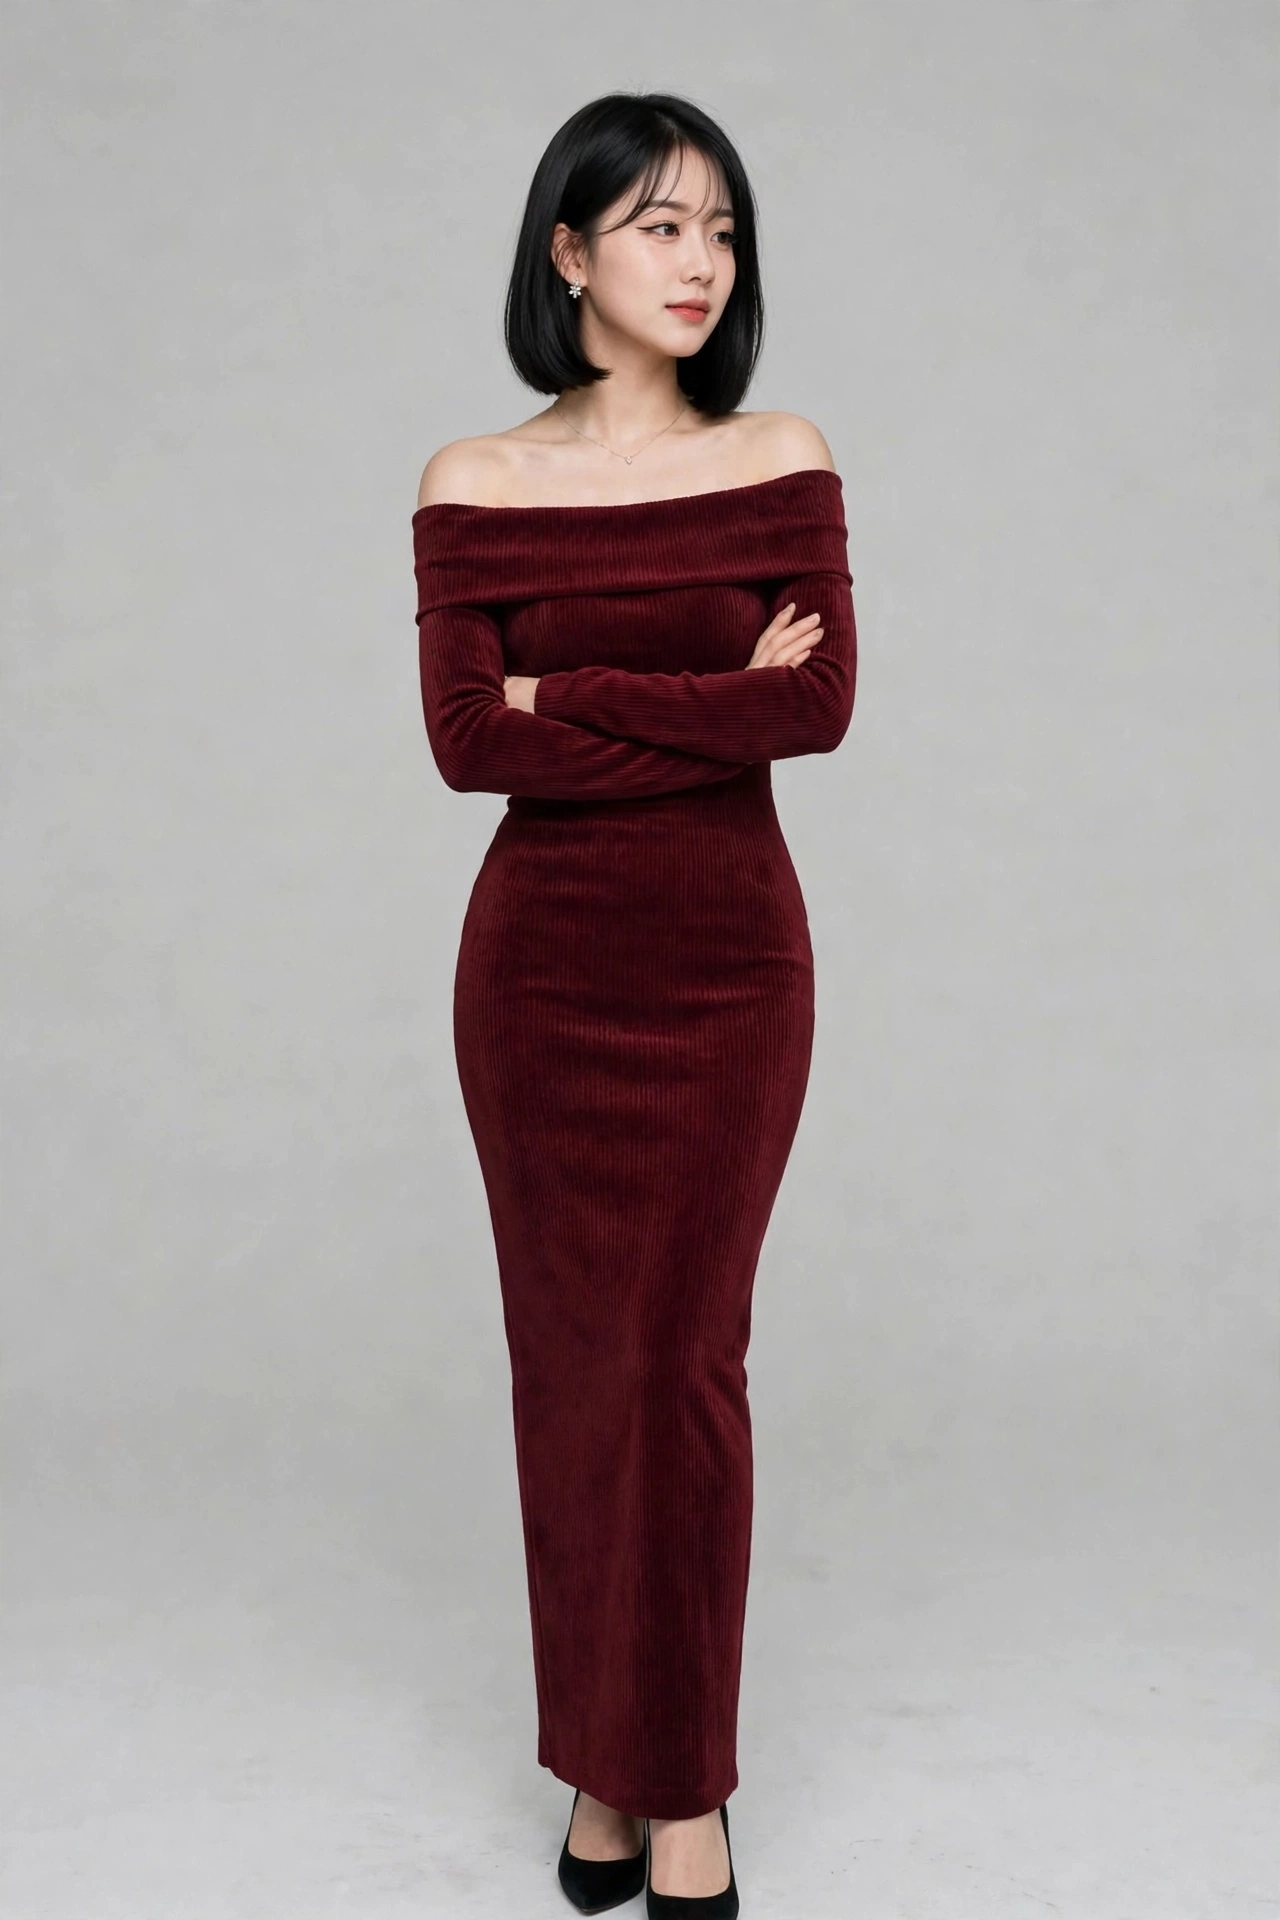
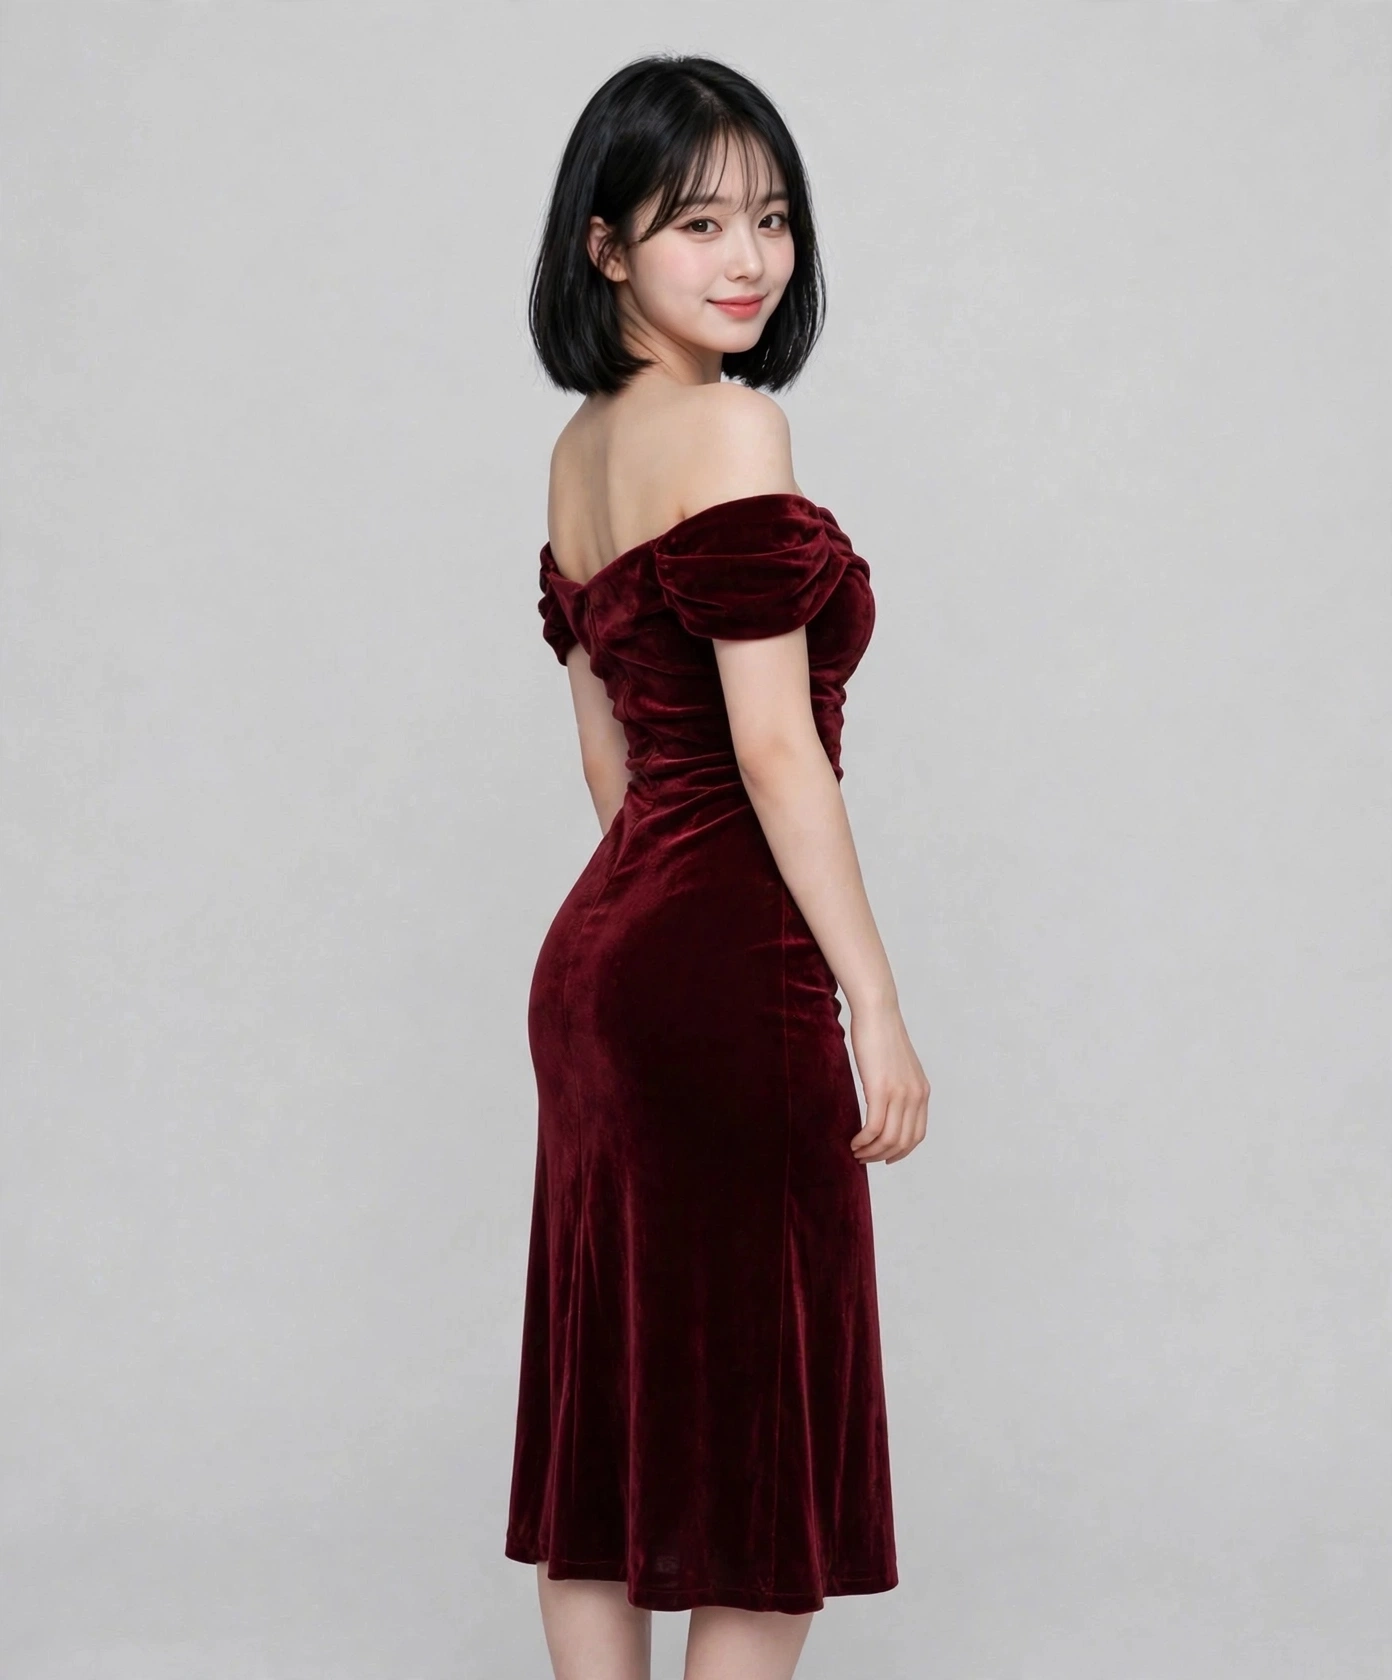
Refill Sena studio2 1-4 with v2 face, varied poses (v67)

diff --git a/index.html b/index.html
@@ -42,7 +42,7 @@
 <body>
 <header>
   <h1 id="album-title">Mia's Album</h1>
-  <p id="album-sub">확정 얼굴 기준의 컷 모음 (총 154컷) · 버전 66</p>
+  <p id="album-sub">확정 얼굴 기준의 컷 모음 (총 154컷) · 버전 67</p>
   <div class="char-switch" role="tablist" aria-label="캐릭터 선택">
     <button type="button" class="char-btn active" id="btn-mia">Mia</button>
     <button type="button" class="char-btn" id="btn-ciel">Ciel</button>
@@ -408,10 +408,10 @@
 <section id="sena-studio2">
   <h2>스튜디오 2차</h2>
   <div class="grid">
-    <div class="card" data-cap="Sena 스튜디오2 1 — 실버 새틴 롱드레스, 한 손 허리"><img src="img/sena-studio2-1.webp" alt="Sena 스튜디오2 1"><div class="cap">실버 새틴 · 롱</div></div>
-    <div class="card" data-cap="Sena 스튜디오2 2 — 네이비 페플럼, 워킹 미소"><img src="img/sena-studio2-2.webp" alt="Sena 스튜디오2 2"><div class="cap">네이비 페플럼 · 워킹</div></div>
-    <div class="card" data-cap="Sena 스튜디오2 3 — 버건디 오프숄더 롱, 팔짱 시크"><img src="img/sena-studio2-3.webp" alt="Sena 스튜디오2 3"><div class="cap">버건디 오프숄더 · 시크</div></div>
-    <div class="card" data-cap="Sena 스튜디오2 4 — 화이트 민소매 여름 원피스, 손 흔들며 웃음"><img src="img/sena-studio2-4.webp" alt="Sena 스튜디오2 4"><div class="cap">화이트 · 여름 웃음</div></div>
+    <div class="card" data-cap="Sena 스튜디오2 1 — 실버 새틴 롱드레스, 앉아 턱 든 도도"><img src="img/sena-studio2-1.webp" alt="Sena 스튜디오2 1"><div class="cap">실버 새틴 · 도도</div></div>
+    <div class="card" data-cap="Sena 스튜디오2 2 — 네이비 페플럼, 워킹 큰 웃음"><img src="img/sena-studio2-2.webp" alt="Sena 스튜디오2 2"><div class="cap">네이비 페플럼 · 큰 웃음</div></div>
+    <div class="card" data-cap="Sena 스튜디오2 3 — 버건디 오프숄더 롱, 돌아봄 미소"><img src="img/sena-studio2-3.webp" alt="Sena 스튜디오2 3"><div class="cap">버건디 오프숄더 · 돌아봄</div></div>
+    <div class="card" data-cap="Sena 스튜디오2 4 — 화이트 민소매 여름 원피스, 하이앵글 놀람"><img src="img/sena-studio2-4.webp" alt="Sena 스튜디오2 4"><div class="cap">화이트 · 하이앵글 놀람</div></div>
     <div class="card" data-cap="Sena 스튜디오2 5 — 하늘 민소매 랩 원피스, 윙크 볼하트"><img src="img/sena-studio2-5.webp" alt="Sena 스튜디오2 5"><div class="cap">하늘 랩 · 윙크</div></div>
     <div class="card" data-cap="Sena 스튜디오2 6 — 노란 선드레스, 빙글 돌며 웃음"><img src="img/sena-studio2-6.webp" alt="Sena 스튜디오2 6"><div class="cap">노란 선드레스 · 빙글</div></div>
     <div class="card" data-cap="Sena 스튜디오2 7 — 아이보리 새틴 슬립, 한 손 허리 우아하게"><img src="img/sena-studio2-7.webp" alt="Sena 스튜디오2 7"><div class="cap">아이보리 새틴 · 우아</div></div>
@@ -499,15 +499,15 @@
     btnSena.classList.toggle('active', name === 'sena');
     if (name === 'ciel'){
       albumTitle.textContent = "Ciel's Album";
-      albumSub.textContent = '단발 귀여운상 기준의 컷 모음 (총 4컷) · 버전 66';
+      albumSub.textContent = '단발 귀여운상 기준의 컷 모음 (총 4컷) · 버전 67';
       document.title = "Ciel's Album";
     } else if (name === 'sena'){
       albumTitle.textContent = "Sena's Album";
-      albumSub.textContent = '시크한 단발 귀염상 기준의 컷 모음 (총 29컷) · 버전 66';
+      albumSub.textContent = '시크한 단발 귀염상 기준의 컷 모음 (총 29컷) · 버전 67';
       document.title = "Sena's Album";
     } else {
       albumTitle.textContent = "Mia's Album";
-      albumSub.textContent = '확정 얼굴 기준의 컷 모음 (총 154컷) · 버전 66';
+      albumSub.textContent = '확정 얼굴 기준의 컷 모음 (총 154컷) · 버전 67';
       document.title = "Mia's Album";
     }
     cards = allCards.filter(c => c.offsetParent !== null);

diff --git a/sw.js b/sw.js
@@ -1,4 +1,4 @@
-const CACHE = 'influencer-album-v66';
+const CACHE = 'influencer-album-v67';
 const CORE = ['./', './index.html', './manifest.webmanifest', './icon-192.png', './icon-512.png',
   './img/face-anchor.webp',
   './img/studio-1.webp', './img/studio-2.webp', './img/studio-3.webp', './img/studio-4.webp',
